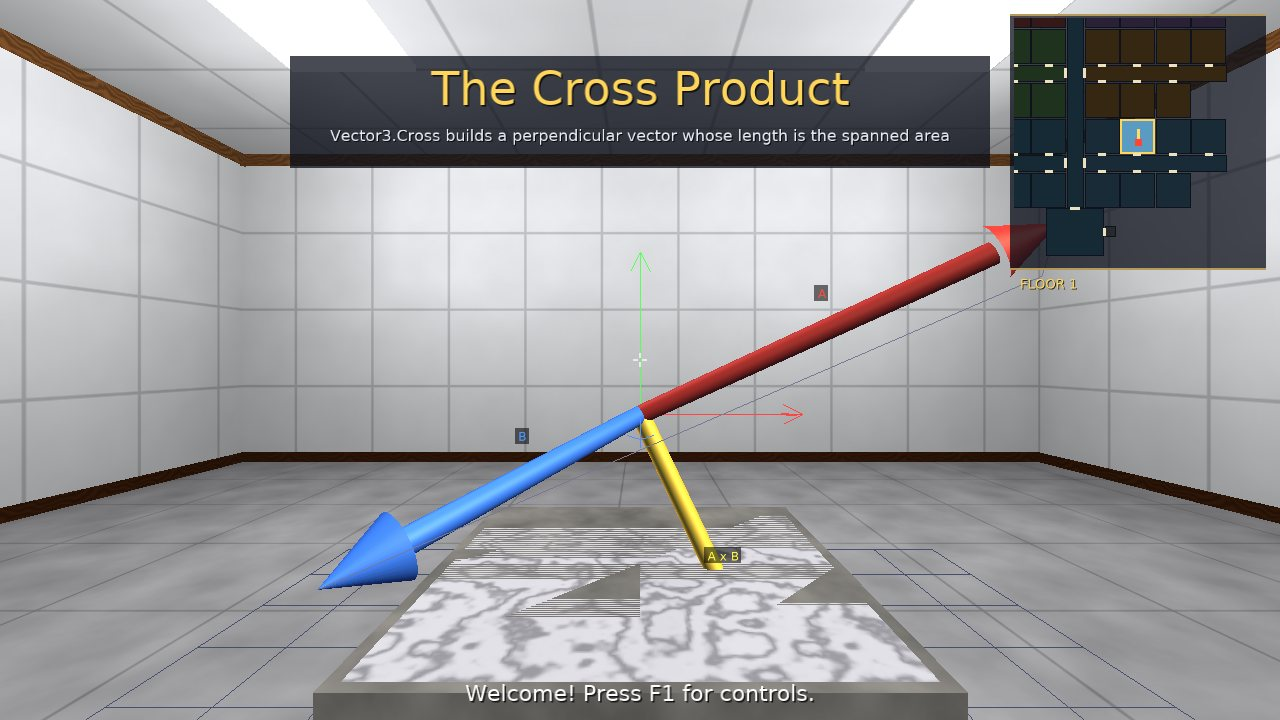
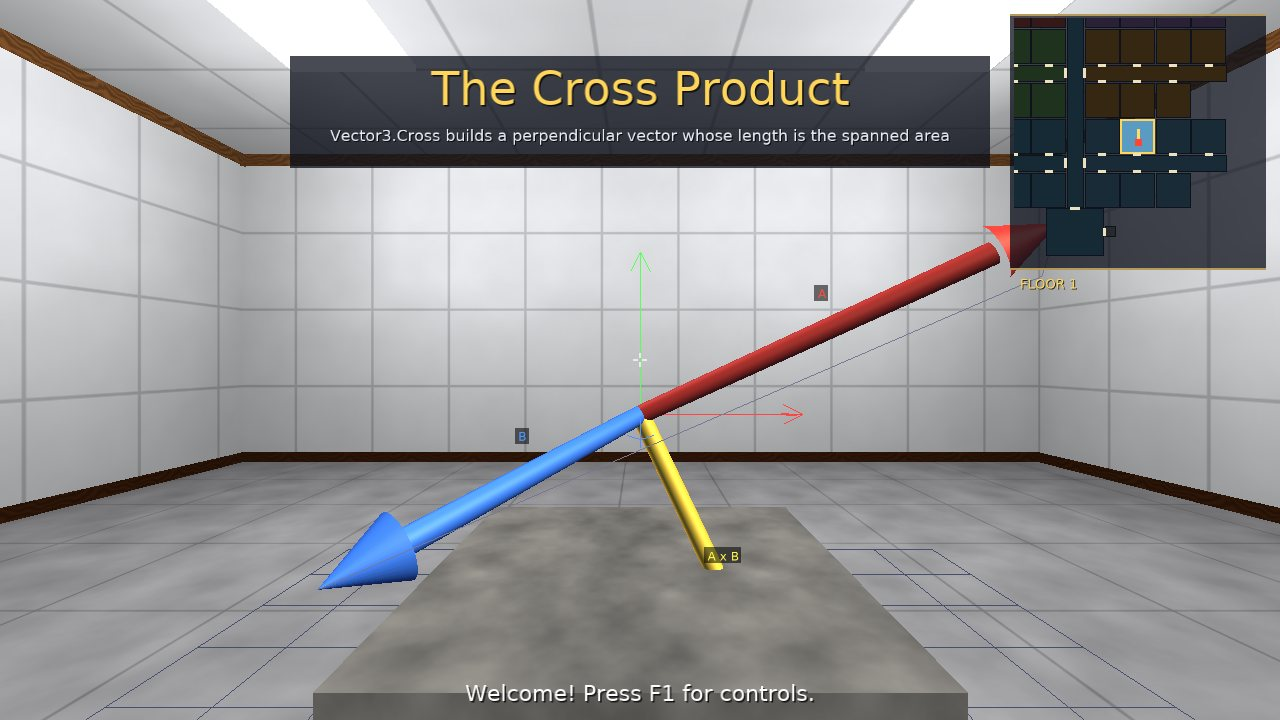
Pedestal caps no longer z-fight with the block top; refreshed references

Changed region(s): [[0.25, 0.7028, 0.75, 0.9472]]

diff --git a/src/World/RoomBuilder.cpp b/src/World/RoomBuilder.cpp
@@ -20,7 +20,8 @@ Vector3 RoomBuilder::AddPedestal(float x, float z, float size, float height, con
 {
     const float h = size * 0.5f;
     // Stepped plinth: a slightly wider base and cap give the block some architectural character.
-    AddBox(Vector3(x - h, 0.0f, z - h), Vector3(x + h, height, z + h), texture, 1.0f, tint, true);
+    // The block ends a hair below the cap so the two top faces are never coplanar (that z-fought as stripes).
+    AddBox(Vector3(x - h, 0.0f, z - h), Vector3(x + h, height - 0.006f, z + h), texture, 1.0f, tint, true);
     AddBox(Vector3(x - h - 0.05f, 0.0f, z - h - 0.05f), Vector3(x + h + 0.05f, 0.1f, z + h + 0.05f), "stone", 1.0f,
            Vector3(0.7f, 0.7f, 0.7f), false);
     AddBox(Vector3(x - h - 0.04f, height - 0.06f, z - h - 0.04f), Vector3(x + h + 0.04f, height, z + h + 0.04f), "stone",
